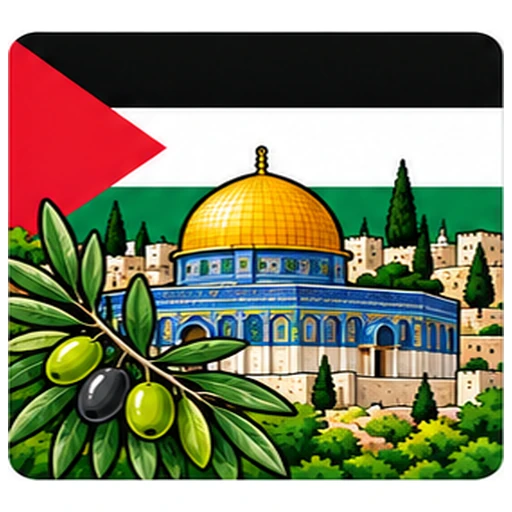
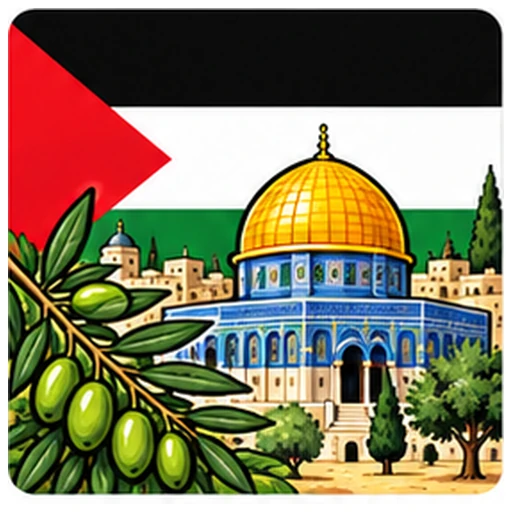
add

diff --git a/kotobakoujou/index.html b/kotobakoujou/index.html
@@ -11592,7 +11592,7 @@
         });
     }
     // 絵を かきなおしたら IMG_V を かえる → ブラウザに のこった ふるい絵ではなく あたらしい絵を よみなおす
-    var IMG_V = '20261015x';
+    var IMG_V = '20261015y';
     function vsrc(u) { return (u && /^(custom|pack\d+)\//.test(u) && u.indexOf('?') < 0) ? u + '?v=' + IMG_V : u; }
     function loadFirst(urls) {
         if (!urls.length) return Promise.resolve(null);
